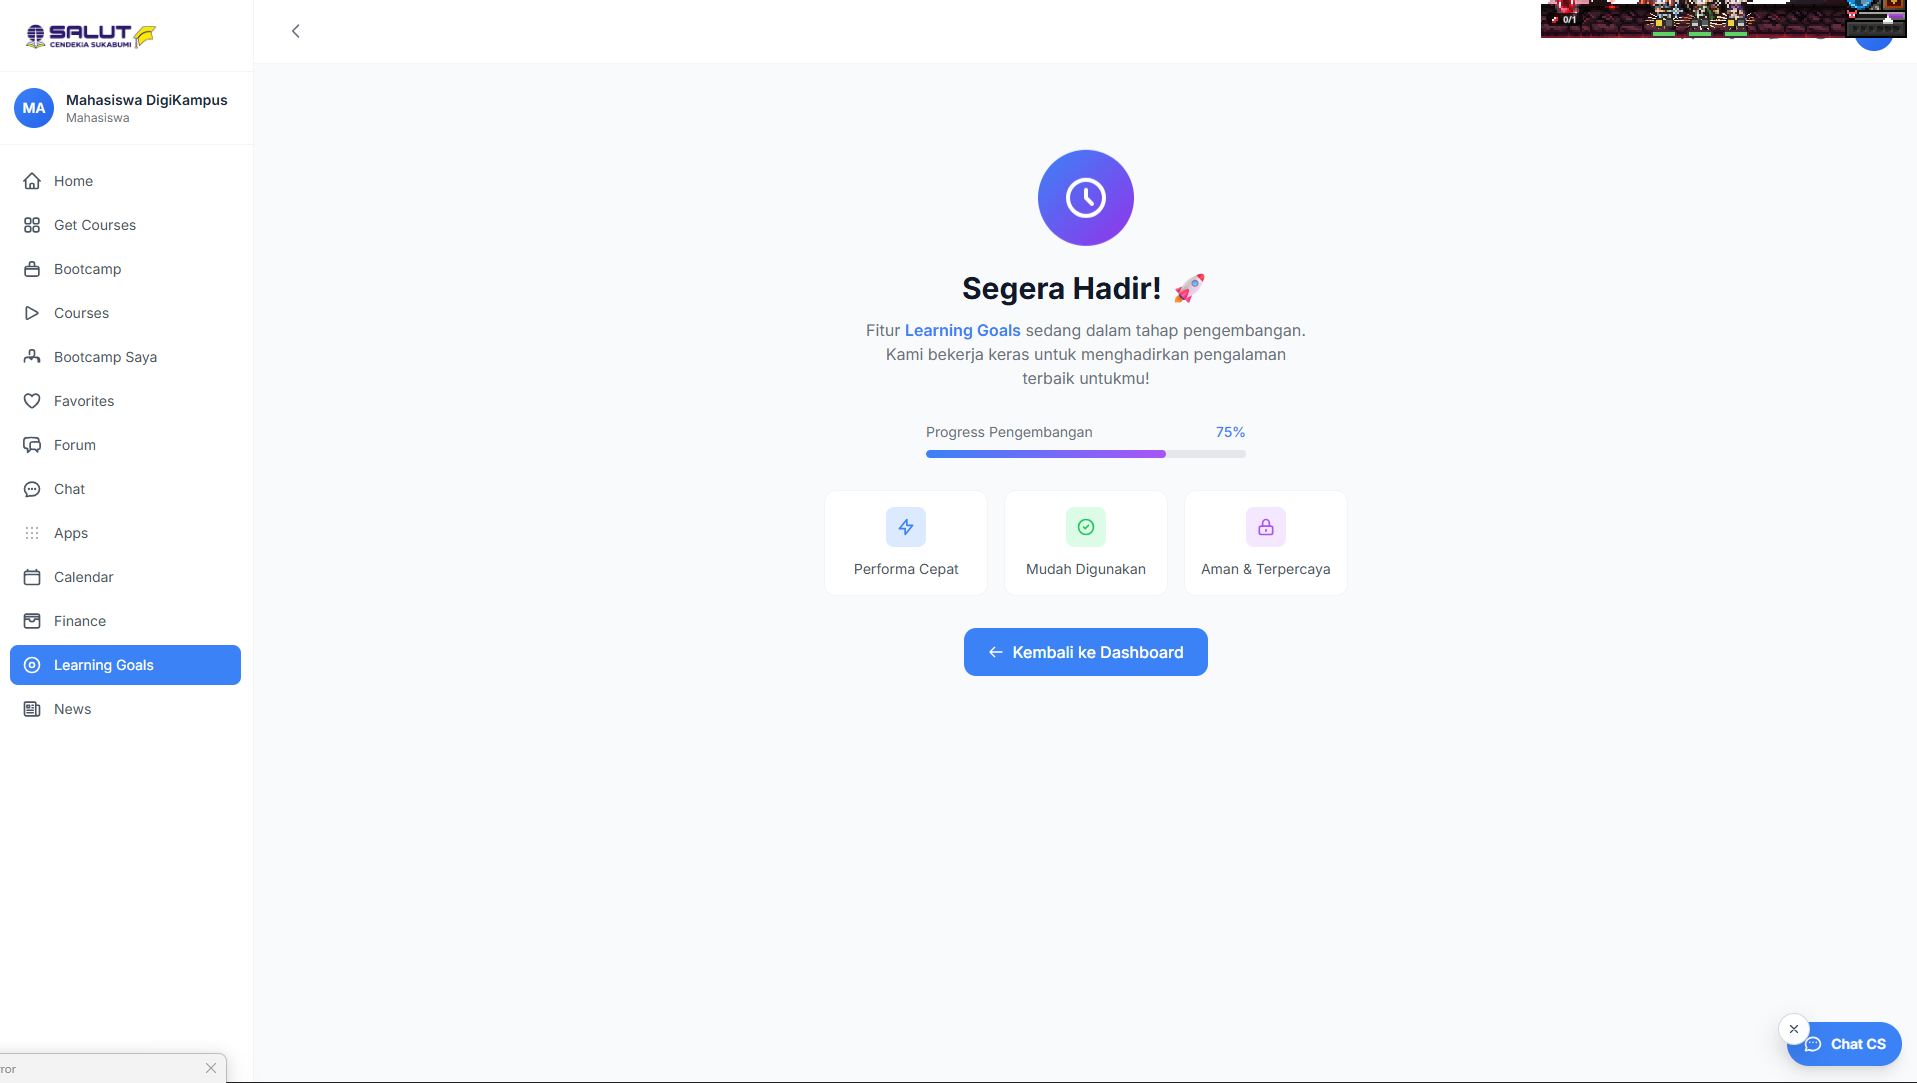
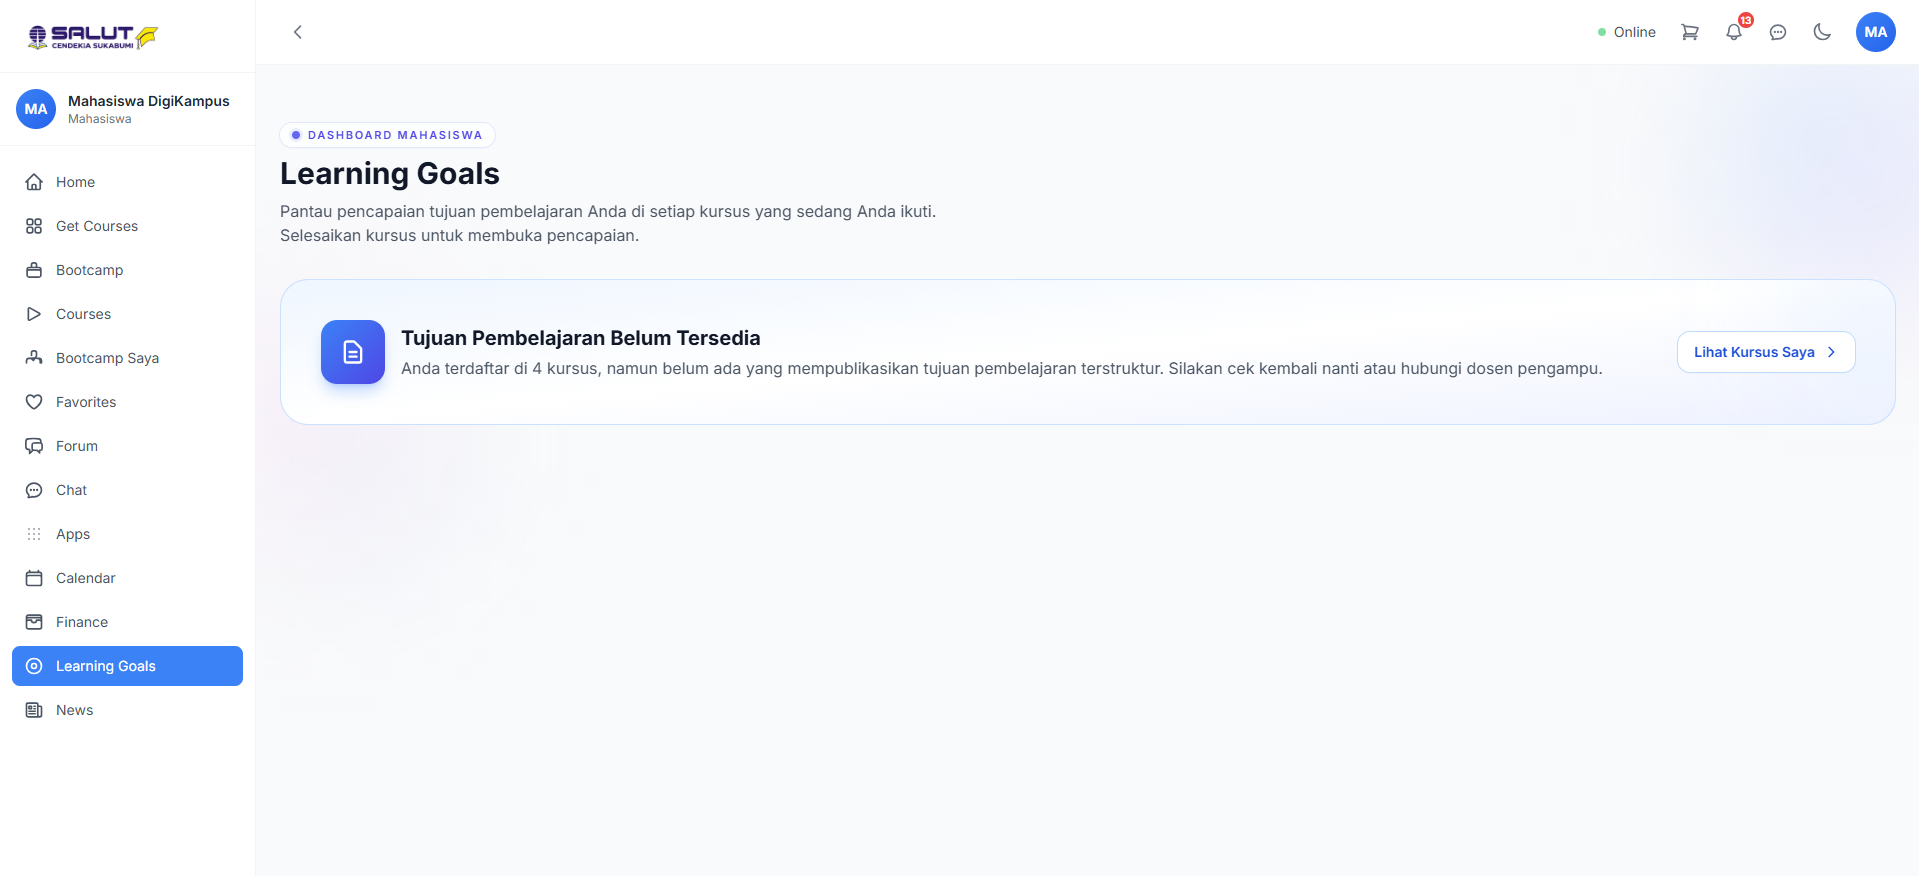
feat: enhance Learning Goals handling and certificate eligibility checks

diff --git a/resources/views/pages/mahasiswa/course-learn.blade.php b/resources/views/pages/mahasiswa/course-learn.blade.php
@@ -57,7 +57,9 @@
     $isPlaylistMode = request('play') === 'pack';
     $certificateEnabled = (bool) ($course->sertifikat ?? false);
     $courseCompletedForCertificate = (($enrollment->status ?? null) === 'selesai' || (int) ($progressPercent ?? 0) >= 100);
-    $certificateEligible = $certificateEnabled && $courseCompletedForCertificate && !empty($issuedCertificate);
+    // PM spec §7: sertifikat mensyaratkan tujuan pembelajaran tersedia.
+    $hasLearningGoals = (bool) ($course->learningGoals && $course->learningGoals->count() > 0);
+    $certificateEligible = $certificateEnabled && $courseCompletedForCertificate && !empty($issuedCertificate) && $hasLearningGoals;
     $issuedCertificateNumber = $issuedCertificate['number'] ?? null;
     $issuedCertificateDate = $issuedCertificate['issued_date'] ?? now()->format('d F Y');
     $issuedCertificateTemplate = $issuedCertificate['template'] ?? null;
@@ -77,6 +79,9 @@
     } elseif (!$courseCompletedForCertificate) {
         $certificateStatusTitle = 'Selesaikan ' . $labelEntityLower . ' untuk membuka sertifikat';
         $certificateStatusMessage = 'Progress harus 100% atau status enrollment sudah selesai sebelum sertifikat bisa diunduh.';
+    } elseif (!$hasLearningGoals) {
+        $certificateStatusTitle = 'Tambahkan tujuan pembelajaran untuk membuka sertifikat';
+        $certificateStatusMessage = 'Course ini belum memiliki tujuan pembelajaran yang dipublikasikan. Sertifikat baru tersedia setelah dosen/admin menambahkan tujuan pembelajaran untuk course ini.';
     } else {
         $certificateStatusTitle = 'Template sertifikat belum siap';
         $certificateStatusMessage = 'Sertifikasi course sudah aktif, tetapi blangko/template sertifikat admin belum valid atau belum tersedia.';
@@ -596,9 +601,17 @@
             {{-- Tujuan Pembelajaran (Learning Goals) dengan indikator achieved --}}
             @if($course->learningGoals && $course->learningGoals->count() > 0)
                 @php
+                    $tujuanLabel = $isBootcamp ? 'Tujuan Bootcamp' : 'Tujuan Pembelajaran';
+                    $tujuanSubject = $isBootcamp ? 'tujuan bootcamp' : 'tujuan pembelajaran';
                     $totalGoals = (int) $course->learningGoals->count();
                     $safeProgress = (int) max(0, min(100, (int) ($progressPercent ?? 0)));
-                    $achievedCount = $totalGoals > 0 ? intdiv($safeProgress * $totalGoals, 100) : 0;
+                    // PM spec §6: enrollment.status is the primary completion signal.
+                    // progress===100 is the legacy-data fallback so existing enrollments
+                    // whose status hasn't been re-synced still flip goals to achieved.
+                    $enrollmentCompleted = (($enrollment->status ?? null) === 'selesai') || $safeProgress >= 100;
+                    $achievedCount = $totalGoals > 0
+                        ? ($enrollmentCompleted ? $totalGoals : intdiv($safeProgress * $totalGoals, 100))
+                        : 0;
                     $allGoalsAchieved = $totalGoals > 0 && $achievedCount >= $totalGoals;
                     $goalProgressLabel = $totalGoals > 0
                         ? "{$achievedCount}/{$totalGoals} tujuan tercapai"
@@ -610,15 +623,13 @@
 
                     <div class="relative space-y-4">
                         <div class="flex flex-wrap items-start justify-between gap-3">
-                            <div>
-                                <h3 class="text-base font-bold leading-snug text-gray-900 dark:text-white sm:text-lg sm:text-xl">
-                                    Tujuan Pembelajaran
-                                </h3>
-                                <p class="mt-1 text-xs leading-relaxed text-gray-600 dark:text-gray-300 sm:text-sm">
-                                    {{ $allGoalsAchieved
-                                        ? 'Selamat! Semua tujuan pembelajaran kursus ini sudah tercapai.'
-                                        : 'Selesaikan kursus untuk membuka pencapaian tiap tujuan pembelajaran berikut.' }}
-                                </p>
+                            <div>                                    <h3 class="text-base font-bold leading-snug text-gray-900 dark:text-white sm:text-lg sm:text-xl">
+                                        {{ $tujuanLabel }}
+                                    </h3>                                    <p class="mt-1 text-xs leading-relaxed text-gray-600 dark:text-gray-300 sm:text-sm">
+                                        {{ $allGoalsAchieved
+                                            ? 'Selamat! Semua ' . $tujuanSubject . ' ini sudah tercapai.'
+                                            : 'Selesaikan ' . $labelEntityLower . ' untuk membuka pencapaian tiap ' . $tujuanSubject . ' berikut.' }}
+                                    </p>
                             </div>
                             <span class="inline-flex items-center gap-2 rounded-full {{ $allGoalsAchieved ? 'bg-emerald-100 text-emerald-700 dark:bg-emerald-500/10 dark:text-emerald-300' : 'bg-blue-100 text-blue-700 dark:bg-blue-500/10 dark:text-blue-300' }} px-3 py-1 text-[11px] font-semibold uppercase tracking-[0.14em] sm:tracking-[0.16em]">
                                 <span class="relative flex h-2 w-2">

diff --git a/resources/views/pages/mahasiswa/course-detail.blade.php b/resources/views/pages/mahasiswa/course-detail.blade.php
@@ -237,7 +237,14 @@
         : (method_exists($course, 'learningGoals') ? $course->learningGoals()->orderBy('urutan')->get() : collect());
     $totalLearningGoals = $learningGoals ? $learningGoals->count() : 0;
     $progressPercent = (int) ($enrollment->progress ?? 0);
-@endphp
+    // PM spec §6: enrollment.status is the primary completion signal (matches course-learn formula);
+    // progress===100 is a legacy-data fallback so existing enrollments whose status hasn't been
+    // re-synced still flip displayed goals to achieved on both pages.
+    $safeProgress = (int) max(0, min(100, $progressPercent));
+    $enrollmentCompleted = (($enrollment->status ?? null) === 'selesai') || $safeProgress >= 100;
+    $achievedCount = $totalLearningGoals > 0
+        ? ($enrollmentCompleted ? $totalLearningGoals : intdiv($safeProgress * $totalLearningGoals, 100))
+        : 0;
     $issuedCertificateNumber = $issuedCertificate['number'] ?? null;
     $issuedCertificateDate = $issuedCertificate['issued_date'] ?? now()->format('d F Y');
     $issuedCertificateTemplate = $issuedCertificate['template'] ?? null;
@@ -370,8 +377,7 @@
                         <h2 class="text-lg font-bold text-gray-800 dark:text-gray-100 flex items-center gap-2">
                             <svg class="w-5 h-5 text-emerald-500" fill="none" stroke="currentColor" viewBox="0 0 24 24"><path stroke-linecap="round" stroke-linejoin="round" stroke-width="2" d="M9 12l2 2 4-4m6 2a9 9 0 11-18 0 9 9 0 0118 0z" /></svg>
                             {{ $tujuanLabel }}
-                        </h2>
-                        <p class="text-sm text-gray-500 dark:text-gray-400 mt-1">Kompetensi yang akan kamu capai setelah menyelesaikan kursus.</p>
+                        </h2>                            <p class="text-sm text-gray-500 dark:text-gray-400 mt-1">Kompetensi yang akan kamu capai setelah menyelesaikan {{ $labelEntityLower }}.</p>
                     </div>
                     <span class="hidden sm:inline-flex items-center gap-1.5 px-3 py-1 rounded-full bg-emerald-50 dark:bg-emerald-500/10 border border-emerald-200 dark:border-emerald-700/40 text-xs font-semibold text-emerald-700 dark:text-emerald-300">
                         {{ $totalLearningGoals }} tujuan
@@ -380,7 +386,7 @@
                 <ol class="space-y-3">
                     @foreach($learningGoals as $goalIndex => $goal)
                         @php
-                            $isAchieved = $isEnrolled && $progressPercent >= (int) round((($goalIndex + 1) / max($totalLearningGoals, 1)) * 100);
+                            $isAchieved = $isEnrolled && $totalLearningGoals > 0 && $goalIndex < $achievedCount;
                         @endphp
                         <li class="flex items-start gap-3 p-3 rounded-xl border {{ $isAchieved ? 'border-emerald-200 dark:border-emerald-700/40 bg-emerald-50/60 dark:bg-emerald-500/5' : 'border-gray-200 dark:border-gray-700/50 bg-gray-50/60 dark:bg-gray-800/40' }}">
                             <div class="mt-0.5 flex h-7 w-7 shrink-0 items-center justify-center rounded-full text-xs font-bold {{ $isAchieved ? 'bg-emerald-500 text-white' : 'bg-gray-200 dark:bg-gray-700 text-gray-600 dark:text-gray-300' }}">

diff --git a/app/Http/Controllers/Mahasiswa/LearningGoalController.php b/app/Http/Controllers/Mahasiswa/LearningGoalController.php
@@ -46,11 +46,17 @@ class LearningGoalController extends Controller
 
                 $totalGoals = (int) $goals->count();
                 $safeProgress = (int) max(0, min(100, (int) $enrollment->progress));
-                $achievedCount = $totalGoals > 0 ? intdiv($safeProgress * $totalGoals, 100) : 0;
+                // PM spec §6: enrollment.status is the primary completion signal.
+                // progress===100 is kept as a fallback so legacy data (where status
+                // hasn't been re-synced yet) still flips Learning Goals to achieved.
+                $enrollmentCompleted = ($enrollment->status ?? null) === 'selesai' || $safeProgress >= 100;
+                $achievedCount = $totalGoals > 0
+                    ? ($enrollmentCompleted ? $totalGoals : intdiv($safeProgress * $totalGoals, 100))
+                    : 0;
 
                 $isBootcamp = strtolower((string) ($course->kategori ?? '')) === 'tiket';
                 $statusBadge = match (true) {
-                    $enrollment->status === 'selesai' || $safeProgress >= 100 => 'selesai',
+                    $enrollmentCompleted => 'selesai',
                     $safeProgress === 0 => 'belum_mulai',
                     default => 'sedang_berjalan',
                 };
